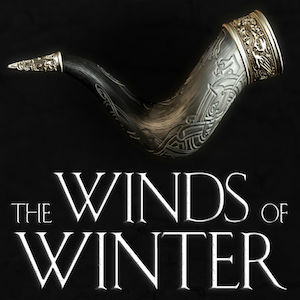
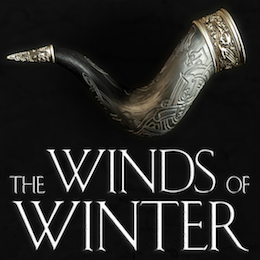
upd

diff --git a/src/storage/index.js b/src/storage/index.js
@@ -1,13 +1,4 @@
-// 取得300*300图片的 imageData
-const getImageData = (imageUrl) => {
-  let image = new Image();
-  image.src = imageUrl;
-  let canvas = document.createElement('canvas');
-  canvas.setAttribute('width', 300);
-  canvas.setAttribute('height', 300);
-  canvas.getContext('2d').drawImage(image, 0, 0, 300, 300);
-  return canvas.toDataURL();
-}
+
 
 /*
 只提供生活、工作、学习3个类别
@@ -34,6 +25,18 @@ class Memo {
       this[attributeName] = updatedMemo[attributeName];
     }
   }
+  // 取得260*260图片的 imageData
+  getImageData (imageUrl) {
+    let canvas = document.createElement('canvas');
+    canvas.setAttribute('width', 260);
+    canvas.setAttribute('height', 260);
+    let image = new Image();
+    image.src = imageUrl;
+    image.onload = () => {
+      canvas.getContext('2d').drawImage(image, 0, 0);
+      this.content = canvas.toDataURL();
+    };
+  }
 }
 
 class VueMemoStorage {
@@ -53,20 +56,18 @@ class VueMemoStorage {
       type: 0,
       content: '给vue-memo的一些按钮添加持续0.2秒、ease-in-out的transition，mouseover时触发。',
     }));
-    this.add(new Memo({
+    let memoVL = new Memo({
       categoryId: 2,
       title: 'vue的logo咋越看越漂亮呢',
       type: 1,
-      content: getImageData('/src/images/vue-logo.png'),
-    }));
+    });
+    memoVL.getImageData('/src/images/vue-logo.png');
+    this.add(memoVL);
     this.add(new Memo({
       categoryId: 1,
       title: '买点东西',
       type: 0,
-      content: `
-      蓝月亮袋装洗衣液/n
-      乐事薯片飘香麻辣锅味/n
-      Marlboro Double Burst`,
+      content: '蓝月亮袋装洗衣液/r 乐事薯片飘香麻辣锅味/r Marlboro Double Burst',
     }));
     this.add(new Memo({
       categoryId: 1,
@@ -79,12 +80,13 @@ class VueMemoStorage {
       What they are, yet I know not/n
       But they will be the terrors of the earth'`,
     }));
-    this.add(new Memo({
+    let memoWOW = new Memo({
       categoryId: 2,
       title: '凛冬的寒风快点出版啊',
       type: 1,
-      content: getImageData('/src/images/the-winds-of-winter.png'),
-    }));
+    });
+    memoWOW.getImageData('/src/images/the-winds-of-winter.png');
+    this.add(memoWOW);
     this.add(new Memo({
       categoryId: 1,
       title: '意义',
@@ -95,7 +97,10 @@ class VueMemoStorage {
 }
 
   let store = localStorage.store = new VueMemoStorage();
+
   store.init();
-  console.log(typeof localStorage.store);
+
+  let a = (JSON.stringify(store));
+  console.log(JSON.parse(a));
 
 export default store;

diff --git a/src/App.vue b/src/App.vue
@@ -103,10 +103,9 @@
           </h6>
           <div class="content text">
             <div v-if="memo.type === 0">
-              {{memo.content|marked}}
+              {{{ memo.markedContent }}}
             </div>
-            <!-- <img v-cloak v-else :src="memo.content" /> -->
-            <!-- <doodle-preview v-else></doodle-preview> -->
+            <img v-else :src="memo.content" />
           </div>
         </div>
       </div>
@@ -173,6 +172,11 @@ export default {
   filters: {
     toReadableDate: filters.toReadableDate,
     marked: marked,
+  },
+  computed: {
+    markedContent (memo) {
+      return marke(memo);
+    }
   }
 }
 </script>
@@ -344,6 +348,7 @@ body
 
     .title
       display inline-block
+      margin-top 6px
       margin-bottom 6px
       padding-bottom 6px
       border-bottom 1px solid $grey
@@ -361,8 +366,8 @@ body
       float right
 
   .content
-    width 250px
-    height 250px
+    width 260px
+    height 260px
     background-color $bootstrap-grey
     bottom 12px
 
@@ -509,22 +514,22 @@ body
 
 @media (min-width 370px) and (max-width 768px)
   #memos-wrapper
-    width 280px
+    width 290px
 
 
 @media (min-width 768px) and (max-width 992px)
   #memos-wrapper
-    width 560px
+    width 580px
 
 
 @media (min-width 992px) and (max-width 1200px)
   #memos-wrapper
-    width 840px
+    width 870px
 
 
 @media (min-width 1200px)
   #memos-wrapper
-    width 1120px
+    width 1160px
 
 
 </style>
